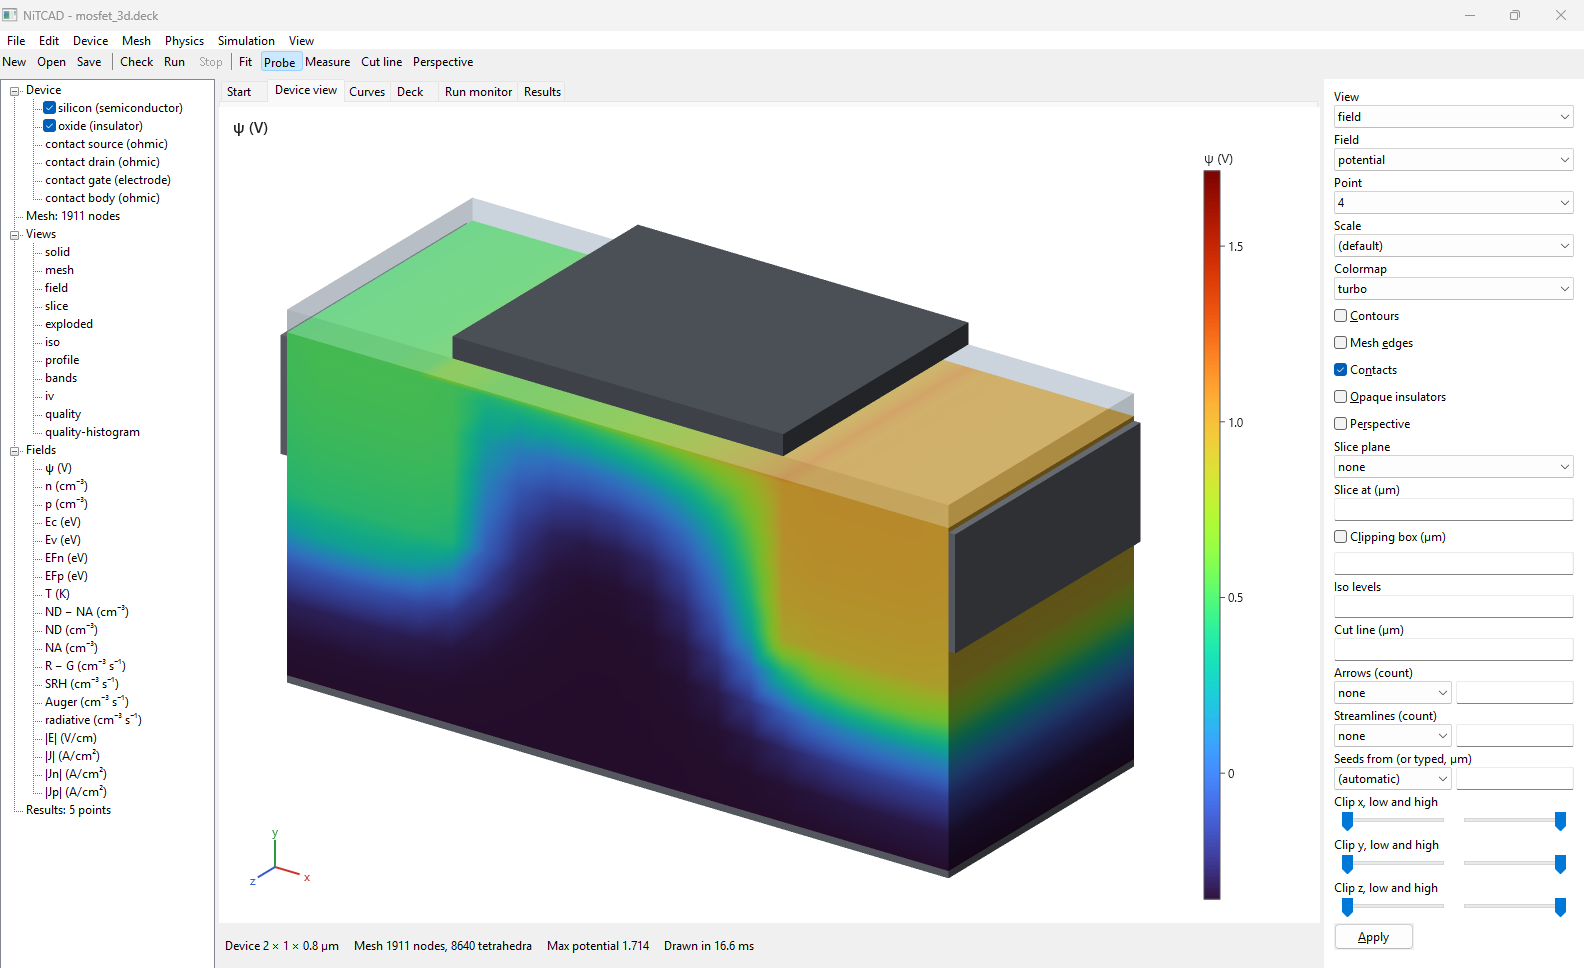
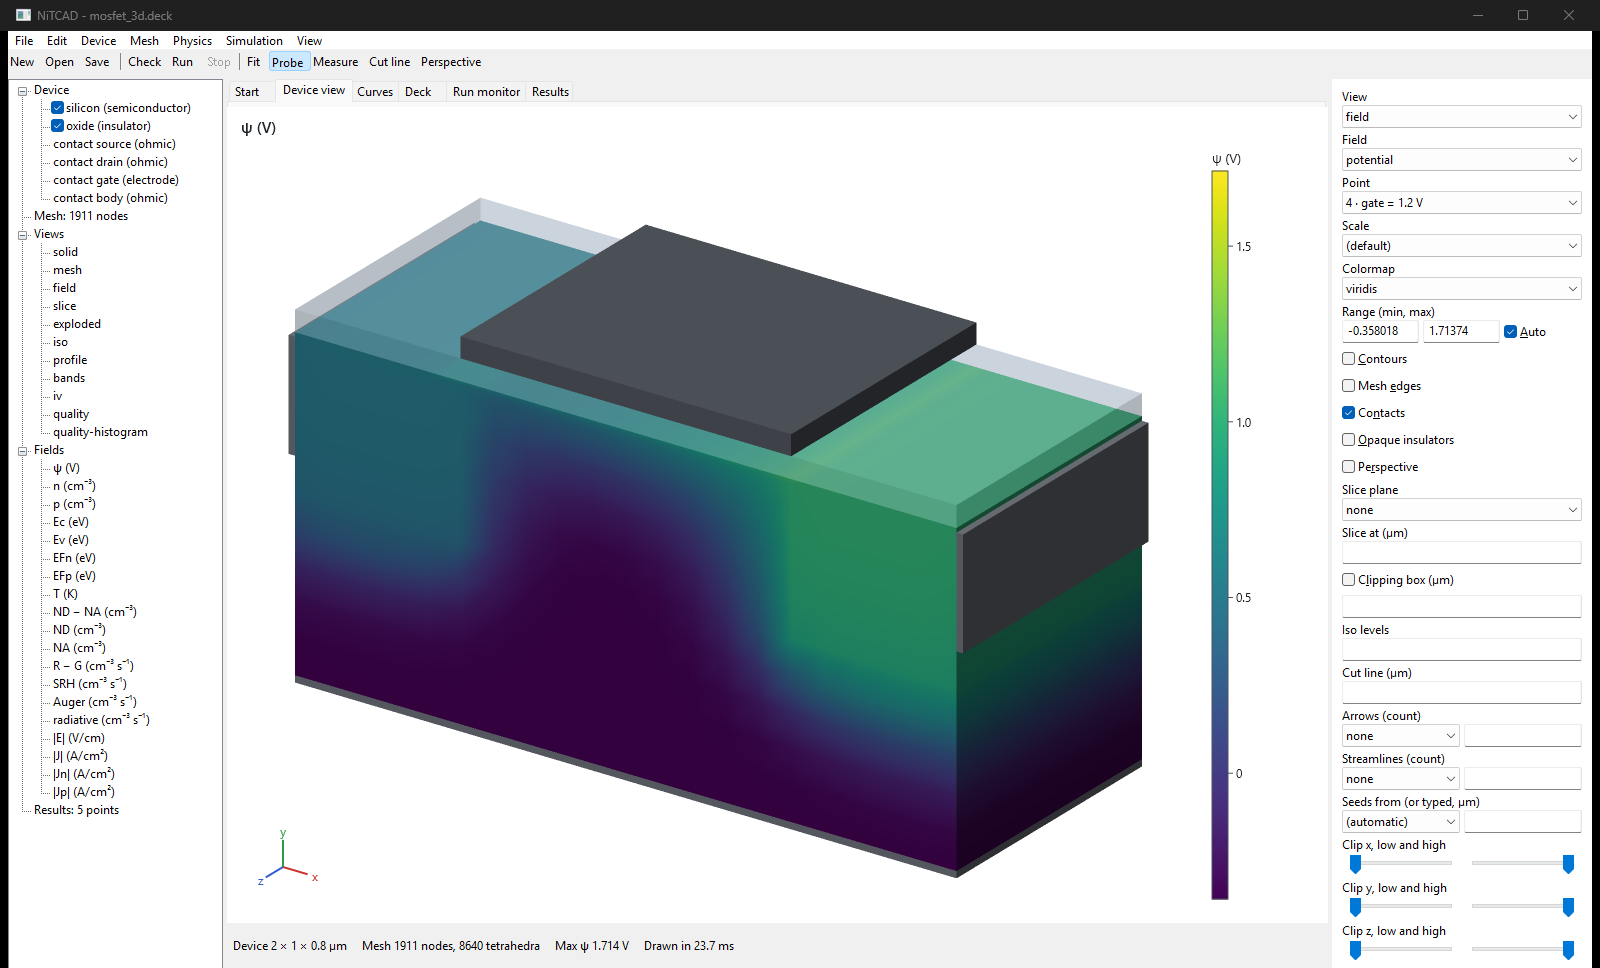
Unit 26d slice 4: as-built record, ARCHITECTURE entry, refreshed screenshot
DECISIONS: the implementation record (slices, choices made in building:
the change flag on focus loss, Auto showing the drawn scale, viridis and
turbo both cool-warm on the difference view, the self-test at turbo, the
taskbar error for failed runs only; tests changed; results). ARCHITECTURE:
Unit 26d "as built" and the status row. docs/images/app.png from the real
app (3D MOSFET example), status bar cropped.

Release ctest 227/227; app 66/66, window 24/24; 13 hand mutants killed.

diff --git a/ARCHITECTURE.md b/ARCHITECTURE.md
@@ -2856,6 +2856,40 @@ CG1–CG9; accepted by the owner 2026-10-22):**
 - Not in Unit 26c: in-view clip handles, the tiled filmstrip in the window, video export, oblique clip planes,
   streamtubes.
 
+**As built (Unit 26d, GUI quick wins; DECISIONS.md ZD1–ZD8, ZQ1–ZQ4, ZG1–ZG10; on `app/gui-quick-wins`):**
+- **No Apply (ZD1, ZQ1):** each inspector text box (arrow and line counts, seeds, gap, slice position, clipping
+  box, iso levels, cut line, colour range) takes effect by itself on Enter (`MainWindow::pre_translate`) or when
+  focus leaves it changed (`EN_KILLFOCUS` with the edit's change flag). Invalid text puts the reason in the status
+  bar and the box shows the setting again (`box_text`). The slice axis list and the clipping-box check commit
+  their own box only.
+- **Colour range (ZD3):** a Range row (min, max, Auto) on the field, slice, iso and exploded views. Auto shows the
+  scale the view was drawn on. Typed values set `ViewSettings::range` as `nitcad plot --range` takes them (min <
+  max, finite, both > 0 on a log scale). Unchecking Auto keeps the drawn scale as the range. A new field resets
+  it to Auto.
+- **Point labels (ZD2, ZQ2):** `app::point_labels`: `k · gate = 1.2 V` for each contact whose bias varies (the
+  swept one first, as `swept_contact` takes it), `k · t = 1.25 ns` for a transient, the bare index otherwise.
+- **Metrics unit (ZD7):** `app::max_metric` writes `Max ψ 1.714 V` from the field's title (the one the tree and
+  colour bar show); the difference view `Max |B − A| <v> <unit>`.
+- **Viridis default (ZD8, superseding VQ5 for the app only):** `app::app_colormap`; new views and the Colormap
+  list start with viridis, and `plot_arguments` names it (`--colormap viridis`) on the device views. `nitcad plot`
+  keeps turbo, and the self-test takes plot's options so it starts at turbo too. On the difference view viridis
+  and turbo both mean cool-warm (`app::takes_coolwarm`), so the equivalent command draws the same map; another
+  colormap chosen is used.
+- **Window integration (ZD4–ZD6, ZQ3, ZQ4):** `app/integration` holds the decisions as plain functions. A file
+  dropped on the window opens as the recent-files list opens it (`open_target`), after the unsaved-edits prompt;
+  two files, a folder, or a drop during a run or check is refused (`dropped_file`). The taskbar button shows a
+  run's progress (`ITaskbarList3`, made on `TaskbarButtonCreated`; `taskbar_progress`): normal, indeterminate when
+  the length is unknown, the error state after a failed run until the next run or check; a run ending in the
+  background flashes the button. The title bar follows the user's app theme (`DWMWA_USE_IMMERSIVE_DARK_MODE`,
+  `dark_title_bar`) at creation and on `WM_SETTINGCHANGE` "ImmersiveColorSet"; the client area is unchanged.
+- Gates: ZG1–ZG7 and ZG10 by the app and window tests (the window tests press Enter through `pre_translate`,
+  send `EN_KILLFOCUS`, and post `WM_DROPFILES` with a built `HDROP`); the app tests that build their own `nitcad
+  plot` commands name `--colormap viridis`, nothing else changed (ZG8); 13 hand mutants, at least one per ZD
+  item, all killed (ZG9). `docs/images/app.png` refreshed.
+- Not in Unit 26d (the larger items of the same review): inspector groups that show only what applies, one
+  clipping-box input, image export and copy, TaskDialog errors, toolbar icons, tooltips, context menus,
+  tree/inspector consolidation, camera presets, a full dark mode, undo for view settings.
+
 ## 7. Language placement (D6: C and Fortran deferred)
 
 | Component | Language | Reason |
@@ -3155,7 +3189,7 @@ built.
 | 23 | Thermal / electrothermal coupling | physics, assemble, solve | **done, on `main`** (`7300b67`, PR #30): the lattice temperature as a fourth Newton unknown (the rise τ) with an exact Jacobian; Wachutka's thermodynamic fluxes (Boltzmann and Fermi–Dirac), the heat as the energy flux's divergence with Peltier and Thomson heat, isothermal and R_th thermal contacts; T in every model the assembler has; steady sweeps, `trace_bias` (thermal-runaway folds), transients and AC; traps and BTBT refused; thermionic emission (deferred) and incomplete ionization refused (6.2, Unit 23; DECISIONS.md T1–T14, U1–U8) |
 | 24 | Analysis and extraction engine | analysis | **done, on `main`** (`4183767`): curves read from sweeps and small-signal runs; transistor, diode and breakdown figures; C-V doping profile, flat band and the conductance method; two-port Y/Z/h/S, Mason's U, k, MAG/MSG, f_T and f_max; every extraction with the points it used and resolution and extrapolation flags (6.13, Unit 24) |
 | 25 | Scientific visualization / rendering | render | **25a done** (`render/visualization`): CPU scenes, Direct3D 12 and Direct2D drawing to PNG, `nitcad plot` (6.14); **25b done** (`render/derived-fields`): \|E\|, \|J\|, isosurfaces, streamlines (6.14); **25c done** (`render/vectors-clip`): arrows, clipping box, exploded view, filmstrips (6.14) |
-| 26 | Native Windows application and workflow | app | **done, on `main`** (`e9b1d71`, PR #59): `nitcad-app.exe`, Win32 with Direct3D 12 / Direct2D; deck editor, runs on a worker, run monitor, results, examples, `--self-test` (6.14, Unit 26); **26b done, on `main`** (`51face0`, PR #60): live checking and completion, structure preview, cut lines, run comparison, mesh quality (6.14, Unit 26b); **26c done** (`app/gui-catch-up`, PR #61): arrows, streamlines, exploded view, curve pickers, region visibility, transient playback, clip sliders (6.14, Unit 26c) |
+| 26 | Native Windows application and workflow | app | **done, on `main`** (`e9b1d71`, PR #59): `nitcad-app.exe`, Win32 with Direct3D 12 / Direct2D; deck editor, runs on a worker, run monitor, results, examples, `--self-test` (6.14, Unit 26); **26b done, on `main`** (`51face0`, PR #60): live checking and completion, structure preview, cut lines, run comparison, mesh quality (6.14, Unit 26b); **26c done** (`app/gui-catch-up`, PR #61): arrows, streamlines, exploded view, curve pickers, region visibility, transient playback, clip sliders (6.14, Unit 26c); **26d done** (`app/gui-quick-wins`): no Apply, colour range, point labels, units in the metrics, viridis default, drag and drop, taskbar progress, dark title bar (6.14, Unit 26d) |
 | 27 | Optimization / sensitivity / inverse-design workflows | analysis, solve | long-term target |
 | 28 | Bias step cutting (commercial-readiness programme, 11.3) | solve, results | **done, on `main`** (`06b708d`, PR #31): off by default; halving and growth from the last converged state (11.3, Unit 28; DECISIONS.md S1–S7) |
 | 29 | The io layer: files and checkpoint/restart (11.3) | io | **done, on `main`** (`f69a7a8`, PR #33): meshes, sweeps and checkpoints in a versioned, checksummed container with atomic writes; restart equals the uninterrupted sweep (6.6, Unit 29; DECISIONS.md IO1–IO7) |

diff --git a/DECISIONS.md b/DECISIONS.md
@@ -1071,6 +1071,38 @@ ARCHITECTURE "as built" entry.
 **Owner ruling (2026-11-15):** "choose recommended": ZQ1 (a), ZQ2 (a), ZQ3 (a), ZQ4 (a). Implementation starts only
 on the owner's word.
 
+**Implementation (owner "go 26d", 2026-11-15).** The branch was rebased onto `main` `beb494f` (PR #84's MKL 2026.2)
+before the first slice. Slices: 26d·1 `640f555` (ZD1, ZD3), 26d·2 `6cd8f8b` (ZD2, ZD7, ZD8), 26d·3 `dcdff44` (ZD4–ZD6,
+new `app/integration`), 26d·4 this record, ARCHITECTURE's "as built" entry and `docs/images/app.png`.
+
+Choices made in building, within the design:
+- **ZD1:** a box takes effect on focus loss only when its edit's change flag is set (text typed, not text the program
+  put there), so moving through the inspector does not redraw. The slice axis list commits the slice box and the
+  clipping-box check commits the clipping box; an unchecked box keeps its text to be checked again. Where Apply
+  silently dropped invalid slice, clipping-box and iso-level text, there are now status messages ("A slice plane is
+  at one position in µm.", "A clipping box is <x0>,<y0>,<z0>:<x1>,<y1>,<z1> in µm.", "Iso levels are numbers
+  separated by commas.").
+- **ZD3:** with Auto on, the boxes show the scale the view was drawn on (`{:.6g}`), so one box can be typed and the
+  other taken as shown; unchecking Auto keeps the drawn scale as the range; both boxes emptied mean Auto. A redraw
+  while typing (playback) leaves a focused, changed box as typed.
+- **ZD8:** on the difference view, viridis (the app's default) and turbo (`nitcad plot`'s, which `nitcad plot` draws
+  cool-warm there) both mean cool-warm (`takes_coolwarm`), so `plot_arguments` gives a command that draws the app's
+  map without changing `nitcad plot`. Choosing viridis or turbo there therefore shows cool-warm; cividis, coolwarm and
+  soft are used as chosen. The curve views name no colormap (they have no colour scale). The self-test takes
+  `nitcad plot`'s options, so its default colormap is turbo, keeping "same options, same image" (WG4).
+- **ZD5:** the error state is for a failed run only; a check that fails (the deck does not build) is shown in the
+  deck, not on the taskbar. A run stopped by Stop ends done and clears the state.
+- **Tests changed (ZG8):** the 26b/26c window tests drive Enter instead of Apply; the app and window tests that
+  build their own `nitcad plot` commands for the app's default settings name `--colormap viridis` (the WG4 argument
+  lists, the film frames, the playback frames).
+
+Results: Release app tests 66/66 test cases, window tests 24/24; 13 hand mutants (ZG9: Enter dropped, focus loss
+ignoring the change flag, swapped label order, range kept on a field change, log range not checked, a drop
+taking two files, a drop during a run, error state cleared while idle, inverted theme flag, theme applied on any
+setting change, missing unit, difference taking viridis, turbo default) all killed. Full Release ctest 227/227
+(58.5 min, -j 6), the render and `nitcad plot` reference tests unchanged (ZG8) and the WG1 self-tests at their ruled
+bounds; the Debug suite left to CI, as for Unit 17c.
+
 ---
 
 ## New questions the advisor raised (not yet in `ARCHITECTURE.md`)
